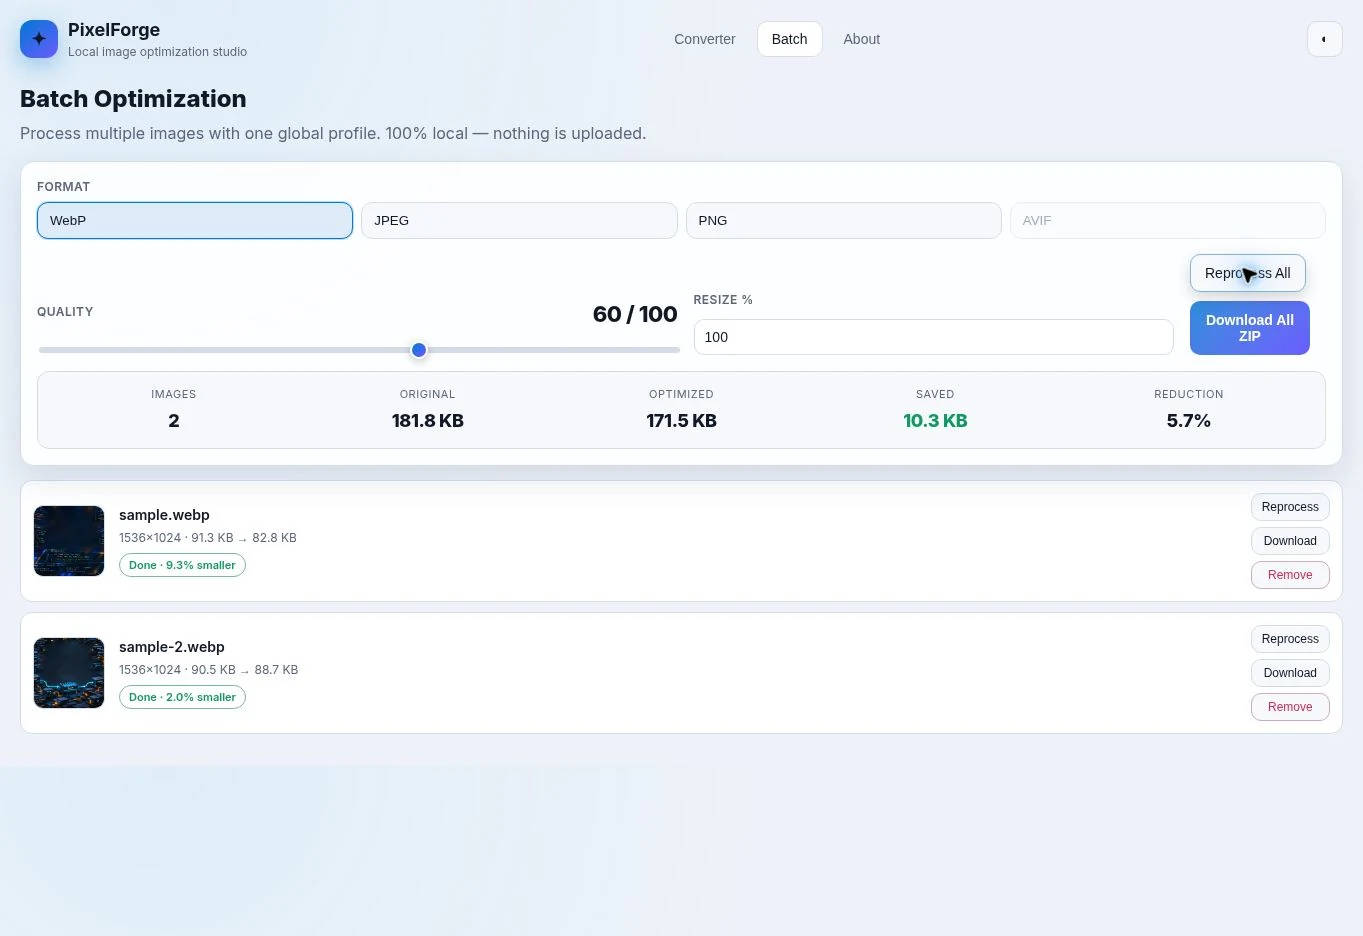
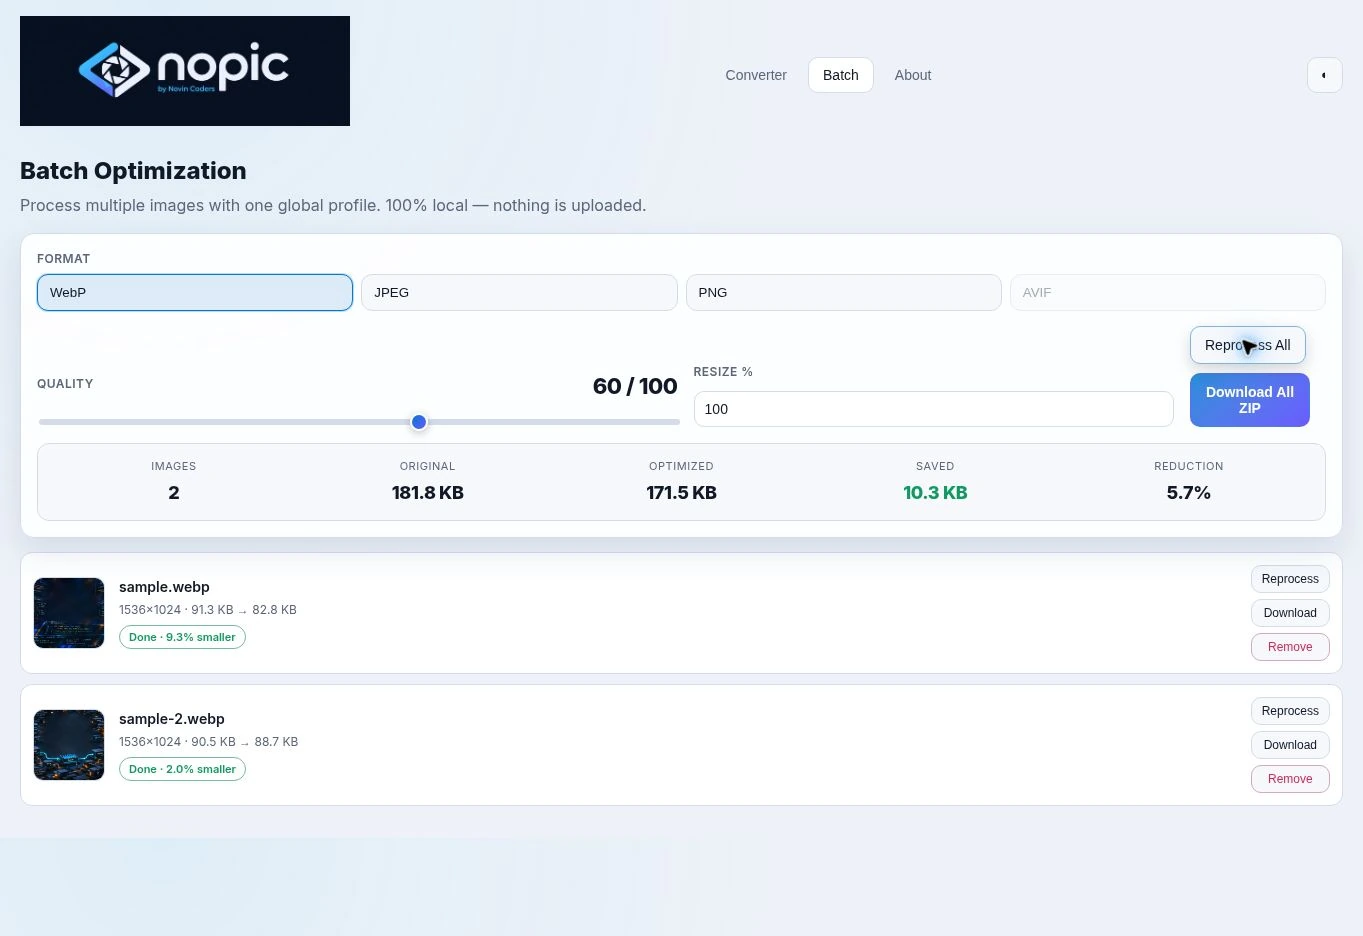
Refresh Nopic cover and gallery with the updated live branding

diff --git a/cms/config/novin.php b/cms/config/novin.php
@@ -13,8 +13,8 @@ return [
             'category' => 'tool',
             'live_url' => 'https://nopic.ir/',
             'technologies' => ['HTML', 'CSS', 'JavaScript', 'Canvas API', 'JSZip'],
-            'en' => ['A local image converter with compression, resizing and batch exports.', 'Nopic processes images in the browser. Convert to WebP, JPEG or PNG, adjust quality or target file size, resize and transform images, compare results, and download individual files or a ZIP archive. AVIF output is available when supported by the browser. The current live interface uses the PixelForge name.'],
-            'fa' => ['ابزار تبدیل و فشردهسازی عکس با پردازش محلی و خروجی گروهی.', 'نوپیک تصاویر را داخل مرورگر پردازش میکند. تبدیل به WebP، JPEG یا PNG، تنظیم کیفیت یا حجم هدف، تغییر ابعاد و چرخش، مقایسه قبل و بعد و دریافت فایل یا آرشیو ZIP در دسترس است. خروجی AVIF به پشتیبانی مرورگر وابسته است. رابط فعلی سایت نام PixelForge را نمایش میدهد.'],
+            'en' => ['A local image converter with compression, resizing and batch exports.', 'Nopic processes images in the browser. Convert to WebP, JPEG or PNG, adjust quality or target file size, resize and transform images, compare results, and download individual files or a ZIP archive. AVIF output is available when supported by the browser.'],
+            'fa' => ['ابزار تبدیل و فشردهسازی عکس با پردازش محلی و خروجی گروهی.', 'نوپیک تصاویر را داخل مرورگر پردازش میکند. تبدیل به WebP، JPEG یا PNG، تنظیم کیفیت یا حجم هدف، تغییر ابعاد و چرخش، مقایسه قبل و بعد و دریافت فایل یا آرشیو ZIP در دسترس است. خروجی AVIF به پشتیبانی مرورگر وابسته است.'],
             'gallery' => 3,
         ],
         'document-studio' => [

diff --git a/cms/config/novin-case-studies.php b/cms/config/novin-case-studies.php
@@ -3,7 +3,7 @@
 return [
     'nopic' => [
         'en' => [
-            'overview' => 'Nopic is a browser-based image optimization workspace for single files and batches. The gallery shows the live nopic.ir interface, currently branded PixelForge, with sample images during real conversion.',
+            'overview' => 'Nopic is a browser-based image optimization workspace for single files and batches. The gallery shows the updated live nopic.ir interface with its Nopic by Novin Coders identity during real image conversion.',
             'features' => [
                 'Convert images to WebP, JPEG or PNG, with AVIF encoding where supported.',
                 'Choose quality presets or search for a target output size.',
@@ -14,7 +14,7 @@ return [
             'approach' => 'Built with HTML, CSS and vanilla JavaScript. Canvas handles resizing and encoding, the File API reads selected images, and a bundled JSZip library packages batch exports. Format detection disables unsupported AVIF encoding.',
         ],
         'fa' => [
-            'overview' => 'نوپیک یک محیط تحت وب برای بهینهسازی تکی و گروهی تصاویر است. گالری، رابط واقعی nopic.ir با نام فعلی PixelForge را هنگام پردازش تصاویر نمونه نشان میدهد.',
+            'overview' => 'نوپیک یک محیط تحت وب برای بهینهسازی تکی و گروهی تصاویر است. گالری، رابط واقعی و جدید nopic.ir با نشان Nopic by Novin Coders را هنگام پردازش تصاویر نمونه نشان میدهد.',
             'features' => [
                 'تبدیل تصاویر به WebP، JPEG و PNG و خروجی AVIF در مرورگرهای سازگار.',
                 'انتخاب کیفیت آماده یا تنظیم حجم هدف.',
